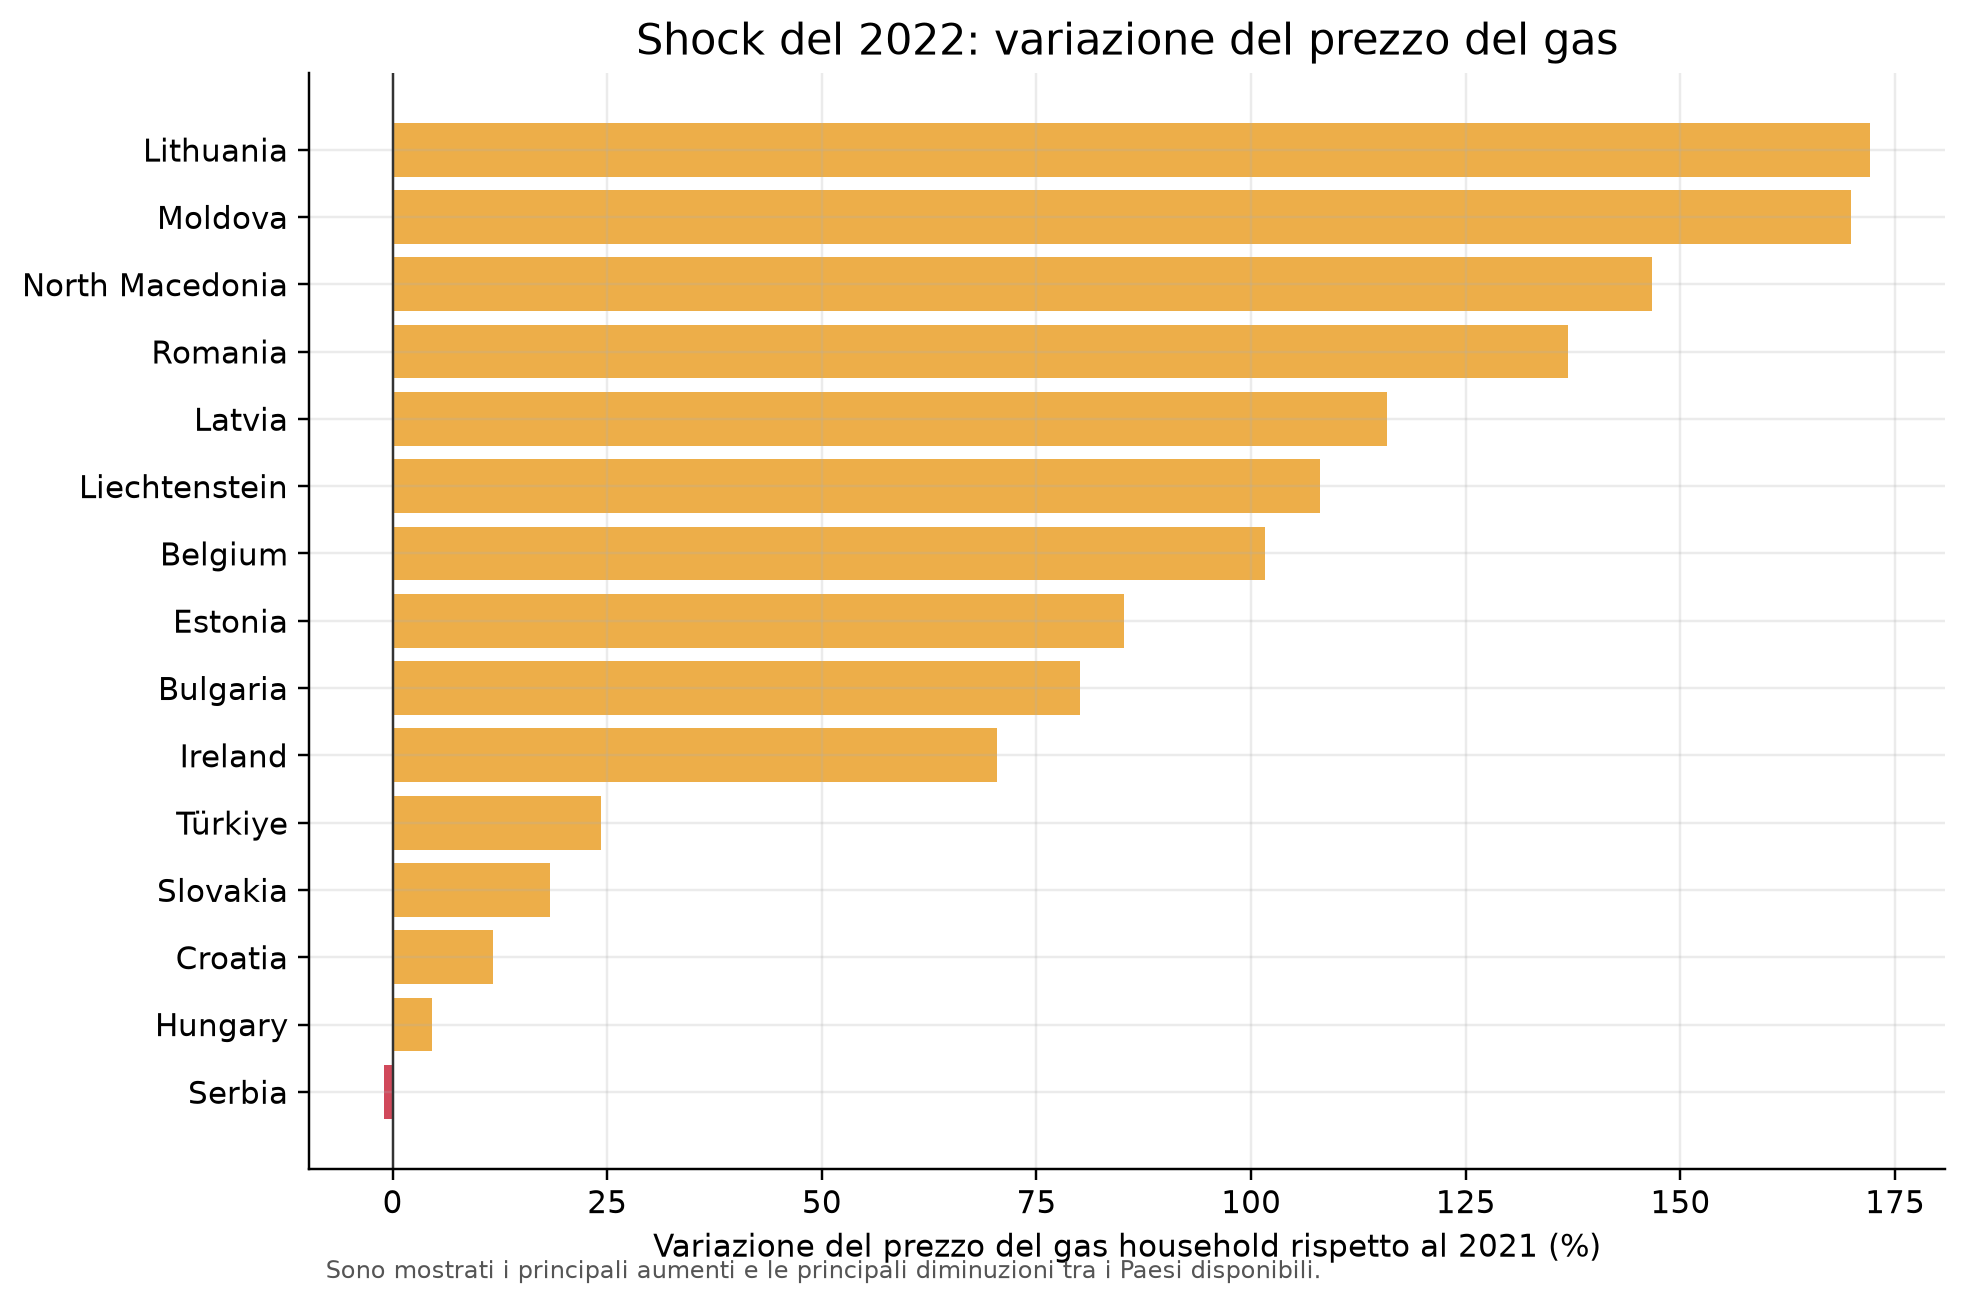
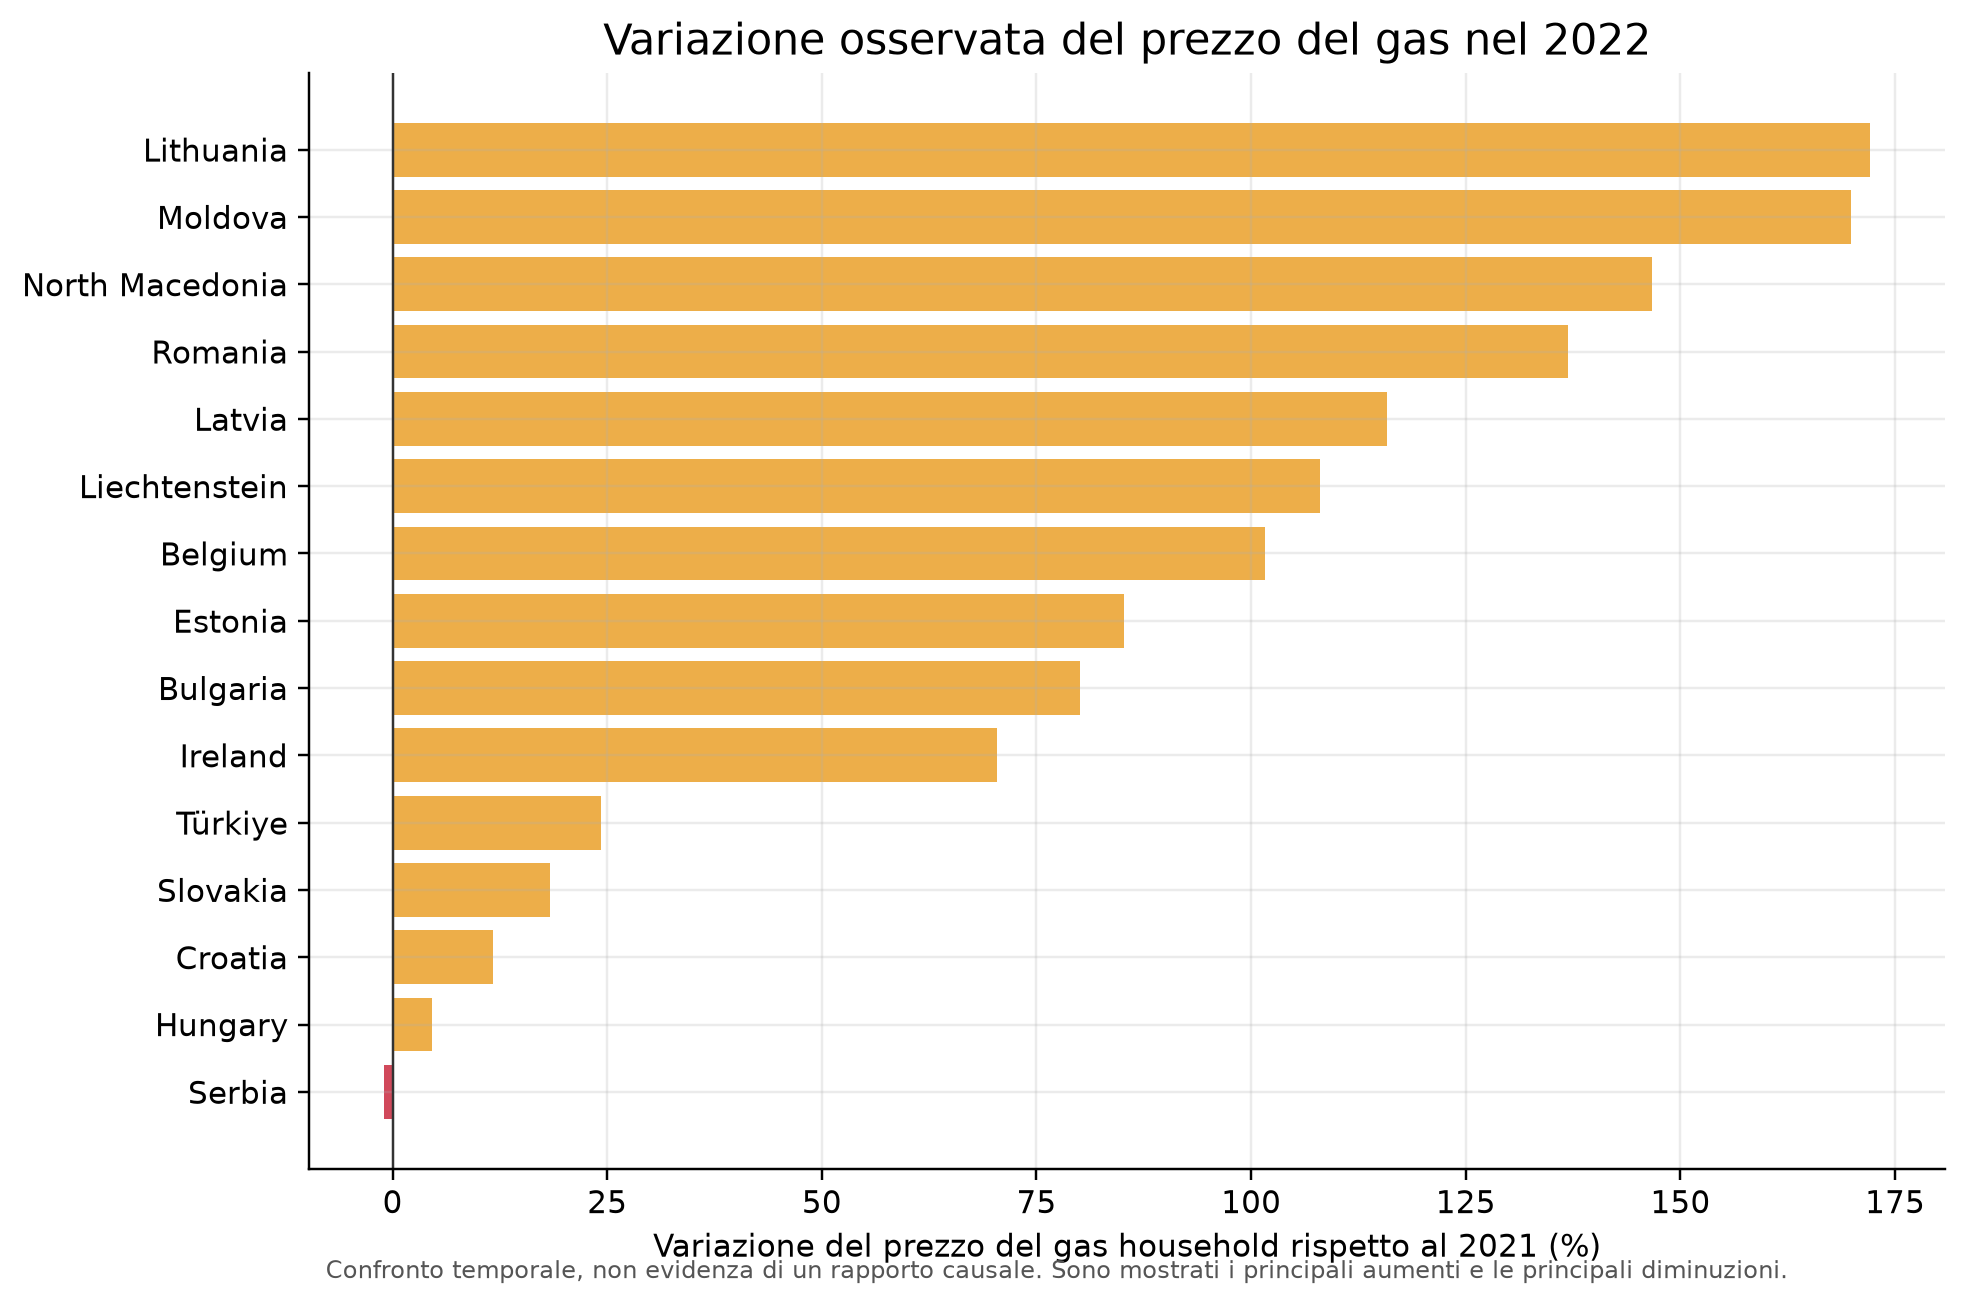
Synchronize final project files

Changed region(s): [[0.3103, 0.0, 0.7447, 0.0613], [0.1551, 0.9495, 0.8998, 0.9801], [0.7757, 0.0, 0.8377, 0.0613]]

diff --git a/src/etl/etl_load_oil_stocks.py b/src/etl/etl_load_oil_stocks.py
@@ -85,6 +85,8 @@ def load_oil_stocks_fact():
         df_data.columns = [str(c).strip() for c in df_data.columns]
 
         month_cols = [c for c in df_data.columns if re.match(r'^\d{4}-\d{2}$', c)]
+        if not month_cols:
+            raise ValueError('Nessuna colonna mensile YYYY-MM trovata nel file Oil Stocks.')
 
         df_long = pd.melt(
             df_data,
@@ -152,20 +154,49 @@ def load_oil_stocks_fact():
         cursor.execute("SELECT month_sk FROM DT_MONTH;")
         valid_months = set(r[0] for r in cursor.fetchall())
 
-        df_filtered = df_valid[
-            df_valid['geo'].isin(geo_map)
-            & df_valid['stk_flow'].isin(STOCK_INDICATORS)
-            & df_valid['unit'].isin(unit_map)
-            & df_valid['unit'].eq(df_valid['stk_flow'].map(EXPECTED_UNITS))
-            & df_valid['month_sk'].isin(valid_months)
+        quantitative_rows = df_valid[
+            ~df_valid['stk_flow'].isin(EXCLUDED_METHOD_INDICATORS)
         ].copy()
+        supported_rows = (
+            quantitative_rows['geo'].isin(geo_map)
+            & quantitative_rows['stk_flow'].isin(STOCK_INDICATORS)
+            & quantitative_rows['unit'].isin(unit_map)
+            & quantitative_rows['unit'].eq(quantitative_rows['stk_flow'].map(EXPECTED_UNITS))
+            & quantitative_rows['month_sk'].isin(valid_months)
+        )
+        unexpected_rows = quantitative_rows.loc[~supported_rows]
+        print(f'Record quantitativi inattesi: {len(unexpected_rows)}')
+        if not unexpected_rows.empty:
+            sample = (
+                unexpected_rows[['stk_flow', 'unit', 'geo', 'month_sk']]
+                .drop_duplicates()
+                .head(10)
+                .to_dict('records')
+            )
+            raise ValueError(
+                'Il file Oil Stocks contiene record quantitativi non riconosciuti. '
+                f'Esempio: {sample}'
+            )
+
+        df_filtered = quantitative_rows.loc[supported_rows].copy()
 
         df_filtered['geo_sk'] = df_filtered['geo'].map(geo_map)
         df_filtered['indicator_sk'] = df_filtered['stk_flow'].map(indicator_map)
         df_filtered['measure_unit_sk'] = df_filtered['unit'].map(unit_map)
 
         key_cols = ['month_sk', 'geo_sk', 'indicator_sk', 'measure_unit_sk']
-        df_dedup = df_filtered.drop_duplicates(subset=key_cols, keep='last')
+        duplicate_rows = df_filtered[df_filtered.duplicated(subset=key_cols, keep=False)]
+        if not duplicate_rows.empty:
+            duplicate_sample = (
+                duplicate_rows[key_cols]
+                .drop_duplicates()
+                .head(10)
+                .to_dict('records')
+            )
+            raise ValueError(
+                'Il file Oil Stocks contiene duplicati alla grana della fact. '
+                f'Esempio: {duplicate_sample}'
+            )
 
         tuples_to_insert = [
             (
@@ -176,10 +207,17 @@ def load_oil_stocks_fact():
                 row['eurostat_flag'],
                 float(row['indicator_value'])
             )
-            for _, row in df_dedup.iterrows()
+            for _, row in df_filtered.iterrows()
         ]
 
         print(f"Record pronti per l'inserimento: {len(tuples_to_insert)}")
+        if not tuples_to_insert:
+            raise ValueError('Nessun record quantitativo valido da caricare in FACT_OIL_STOCKS.')
+
+        # Full refresh: evita di mantenere righe obsolete quando la sorgente
+        # viene aggiornata. Il DELETE e l'INSERT appartengono alla stessa
+        # transazione e vengono annullati insieme in caso di errore.
+        cursor.execute("DELETE FROM FACT_OIL_STOCKS;")
 
         execute_values(
             cursor,
@@ -187,9 +225,7 @@ def load_oil_stocks_fact():
             INSERT INTO FACT_OIL_STOCKS
             (month_sk, geo_sk, indicator_sk, measure_unit_sk, eurostat_flag, indicator_value)
             VALUES %s
-            ON CONFLICT (month_sk, geo_sk, indicator_sk, measure_unit_sk) DO UPDATE SET
-                eurostat_flag = EXCLUDED.eurostat_flag,
-                indicator_value = EXCLUDED.indicator_value;
+            ;
             """,
             tuples_to_insert
         )
@@ -198,6 +234,8 @@ def load_oil_stocks_fact():
         print(f"[SUCCESSO] Inseriti/Aggiornati {len(tuples_to_insert)} record nella tabella FACT_OIL_STOCKS.")
 
     except Exception as e:
+        if 'conn' in locals():
+            conn.rollback()
         print(f"[ERRORE] Durante l'ETL Oil Stocks: {e}")
         raise
     finally:

diff --git a/src/visualization/create_presentation_charts.py b/src/visualization/create_presentation_charts.py
@@ -98,11 +98,11 @@ def shock_chart() -> None:
     ax.barh(show["paese"], show["variazione_prezzo_pct"], color=colors)
     ax.axvline(0, color="#333333", linewidth=0.8)
     ax.set_xlabel("Variazione del prezzo del gas household rispetto al 2021 (%)")
-    ax.set_title("Shock del 2022: variazione del prezzo del gas")
+    ax.set_title("Variazione osservata del prezzo del gas nel 2022")
     ax.text(
         0.01,
         -0.1,
-        "Sono mostrati i principali aumenti e le principali diminuzioni tra i Paesi disponibili.",
+        "Confronto temporale, non evidenza di un rapporto causale. Sono mostrati i principali aumenti e le principali diminuzioni.",
         transform=ax.transAxes,
         fontsize=8,
         color="#555555",
@@ -138,15 +138,28 @@ def ranking_chart() -> None:
 def stocks_chart() -> None:
     df = load("results_settima_query.csv")
     df = df[df["anno"].eq(2025)].sort_values("giorni_equivalenti_medi")
-    show = pd.concat([df.head(5), df.tail(10)]).drop_duplicates().sort_values("giorni_equivalenti_medi")
+    zero_values = df[df["giorni_equivalenti_medi"].eq(0)].sort_values("paese")
+    non_zero_values = df[~df["giorni_equivalenti_medi"].eq(0)].tail(10)
+    show = pd.concat([zero_values, non_zero_values]).drop_duplicates().sort_values("giorni_equivalenti_medi")
     fig, ax = plt.subplots(figsize=(9, 6))
-    ax.barh(show["paese"], show["giorni_equivalenti_medi"], color="#2a9d8f")
+    bars = ax.barh(show["paese"], show["giorni_equivalenti_medi"], color="#2a9d8f")
+    for bar, value in zip(bars, show["giorni_equivalenti_medi"]):
+        if value == 0:
+            ax.text(
+                0.8,
+                bar.get_y() + bar.get_height() / 2,
+                "0",
+                va="center",
+                ha="left",
+                fontsize=8,
+                color="#333333",
+            )
     ax.set_xlabel("Giorni equivalenti medi")
     ax.set_title("Autonomia delle scorte petrolifere nel 2025")
     ax.text(
         0.01,
         -0.1,
-        "Top 10 e ultimi 5 Paesi; media annuale dei valori mensili disponibili.",
+        "Top 10 valori non nulli; i sette Paesi con valore 0 sono etichettati esplicitamente.",
         transform=ax.transAxes,
         fontsize=8,
         color="#555555",

diff --git a/docs/data-sources/README.md b/docs/data-sources/README.md
@@ -16,9 +16,13 @@ stored here are small, versioned metadata artifacts.
 | `nrg_pc_205` | [Data Browser](https://ec.europa.eu/eurostat/databrowser/view/nrg_pc_205/default/table?lang=en) | Electricity prices, non-household | Half-yearly, 2007-S1–2025-S2 | `data/raw/eurostat/nrg_pc_205_tabular.tsv` |
 | `nrg_stk_oem` | [Data Browser](https://ec.europa.eu/eurostat/databrowser/view/nrg_stk_oem/default/table?lang=en) | Emergency oil-security indicators | Monthly, 2013-01–2026-06 | `data/raw/eurostat/nrg_stk_oem_tabular.tsv` |
 
-The corresponding metadata files are `ESTAT_NRG_*.xml`. They define the
+The corresponding metadata files are `ESTAT_NRG_*.xml`. They document the
 dimensions and codelists (`GEO`, `SIEC`, `NRG_CONS`, `TAX`, `UNIT`, `CURRENCY`,
-`STK_FLOW`, `OBS_FLAG` and `CONF_STATUS`) used by the ETL validation logic.
+`STK_FLOW`, `OBS_FLAG` and `CONF_STATUS`). At runtime, the import-dependency
+and energy-price ETLs read their XML files to validate the source structure and
+codes. The Oil Stocks XML is retained as versioned source documentation; its
+ETL uses the explicit quantitative scope defined in the Python mappings because
+the final fact excludes the categorical method indicators.
 
 ### Eurostat transformations
 
@@ -47,7 +51,9 @@ Reference: [Geopolitical Risk Index](https://www.matteoiacoviello.com/gpr.htm).
 
 ## Reproducibility and provenance
 
-Before loading, run the profiling scripts in `src/profiling/` and review
-`src/profiling/report_profiling.md`. Then execute the definitive DDL and ETL
-workflow. Raw files remain immutable; all cleaning, filtering and mapping
-rules are implemented in the ETL scripts rather than by editing source files.
+The final profiling report is available in `src/profiling/report_profiling.md`.
+The profiling scripts are optional inspection tools; the reproducible loading
+workflow starts with the definitive DDL and then executes the ETL scripts in
+the documented order. Raw files remain immutable; all cleaning, filtering and
+mapping rules are implemented in the ETL scripts rather than by editing source
+files.

diff --git a/docs/results/presentation_selection.md b/docs/results/presentation_selection.md
@@ -6,7 +6,7 @@ I CSV originali restano integri nella stessa cartella.
 ## Figure consigliate
 
 1. `figures/02_eu_dependency_electricity_trend.png` — andamento UE 2007–2024;
-2. `figures/03_shock_2022_gas_price_change.png` — effetto osservato dello shock 2022;
+2. `figures/03_shock_2022_gas_price_change.png` — variazione osservata del prezzo del gas nel 2022;
 3. `figures/04_ranking_import_dependency_2024.png` — confronto tra Paesi;
 4. `figures/05_oil_stock_autonomy_2025.png` — autonomia delle scorte nel 2025;
 5. `figures/01_correlation_gpr_electricity.png` — risultato sintetico della correlazione.
@@ -71,8 +71,10 @@ nel 2023.
 - Finland: `150,78` giorni medi;
 - Greece: `112,04`;
 - Italy: `90,74` giorni medi (min `90,18`, max `91,24`);
-- Albania e Serbia: valori medi pari a zero, da presentare solo spiegando che
-  sono valori pubblicati dalla fonte.
+- Albania, Georgia, Moldova, Montenegro, North Macedonia, Norway e Türkiye:
+  valori medi pari a zero, da presentare esplicitando che sono valori pubblicati
+  dalla fonte;
+- Serbia: `44,42` giorni medi.
 
 ## Set minimo raccomandato
 

diff --git a/src/profiling/report_profiling.md b/src/profiling/report_profiling.md
@@ -24,7 +24,7 @@ Il workflow utilizza file raw Eurostat TSV e il file GPR XLS. I file wide vengon
 
 | Fact table | Grana logica | Righe caricate | Periodo caricato |
 |---|---|---:|---|
-| `FACT_GPR` | mese, entità geografica, serie GPR | 499 | 1985-01–2026-07 |
+| `FACT_GPR` | mese, entità geografica | 499 | 1985-01–2026-07 |
 | `FACT_IMPORT_DEPENDENCY` | anno, entità geografica, prodotto energetico | 17.316 | 1990–2024 |
 | `FACT_ENERGY_PRICE` | semestre, entità geografica, fascia, livello fiscale, unità-prezzo | 314.671 | 2007-S1–2025-S2 |
 | `FACT_OIL_STOCKS` | mese, entità geografica, indicatore, unità di misura | 15.103 | 2013-01–2026-06 |
